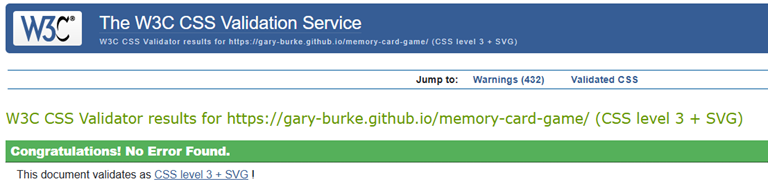
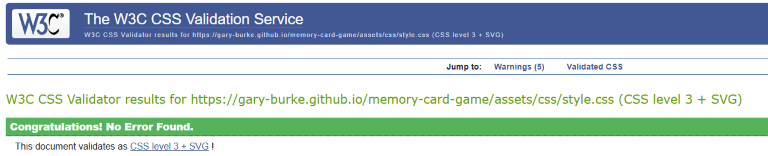
Update CSS validation note in TESTING

diff --git a/TESTING.md b/TESTING.md
@@ -21,11 +21,11 @@ I have used the recommended [CSS Jigsaw Validator](https://jigsaw.w3.org/css-val
 
 | Directory | File | URL | Screenshot | Notes |
 | --- | --- | --- | --- | --- |
-| assets | [styles.css](https://github.com/Gary-Burke/memory-card-game/blob/main/assets/css/style.css) | [CSS Validator](https://jigsaw.w3.org/css-validator/validator?uri=https%3A%2F%2Fgary-burke.github.io%2Fmemory-card-game%2F&profile=css3svg&usermedium=all&warning=1&vextwarning=&lang=en) | ![screenshot](documentation/validation/css/css.png) | All warnings were checked and can be safely ignored, as they are based on external libraries and frameworks.
+| assets | [styles.css](https://github.com/Gary-Burke/memory-card-game/blob/main/assets/css/style.css) | [CSS Validator](https://jigsaw.w3.org/css-validator/validator?uri=https%3A%2F%2Fgary-burke.github.io%2Fmemory-card-game%2F&profile=css3svg&usermedium=all&warning=1&vextwarning=&lang=en) | ![screenshot](documentation/validation/css/css.png) | All warnings were checked and can be safely ignored, as they are based on CSS font variables.
 
 ### JS
 
-I have used the recommended [JS Hint](https://jshint.com/) to validate my JS code and the results can be seen below. 
+I have used the recommended [JSHint Validator](https://jshint.com/) to validate my JS code and the results can be seen below. 
 
 | Directory | File | Screenshot | Notes |
 | --- | --- | --- | --- |
